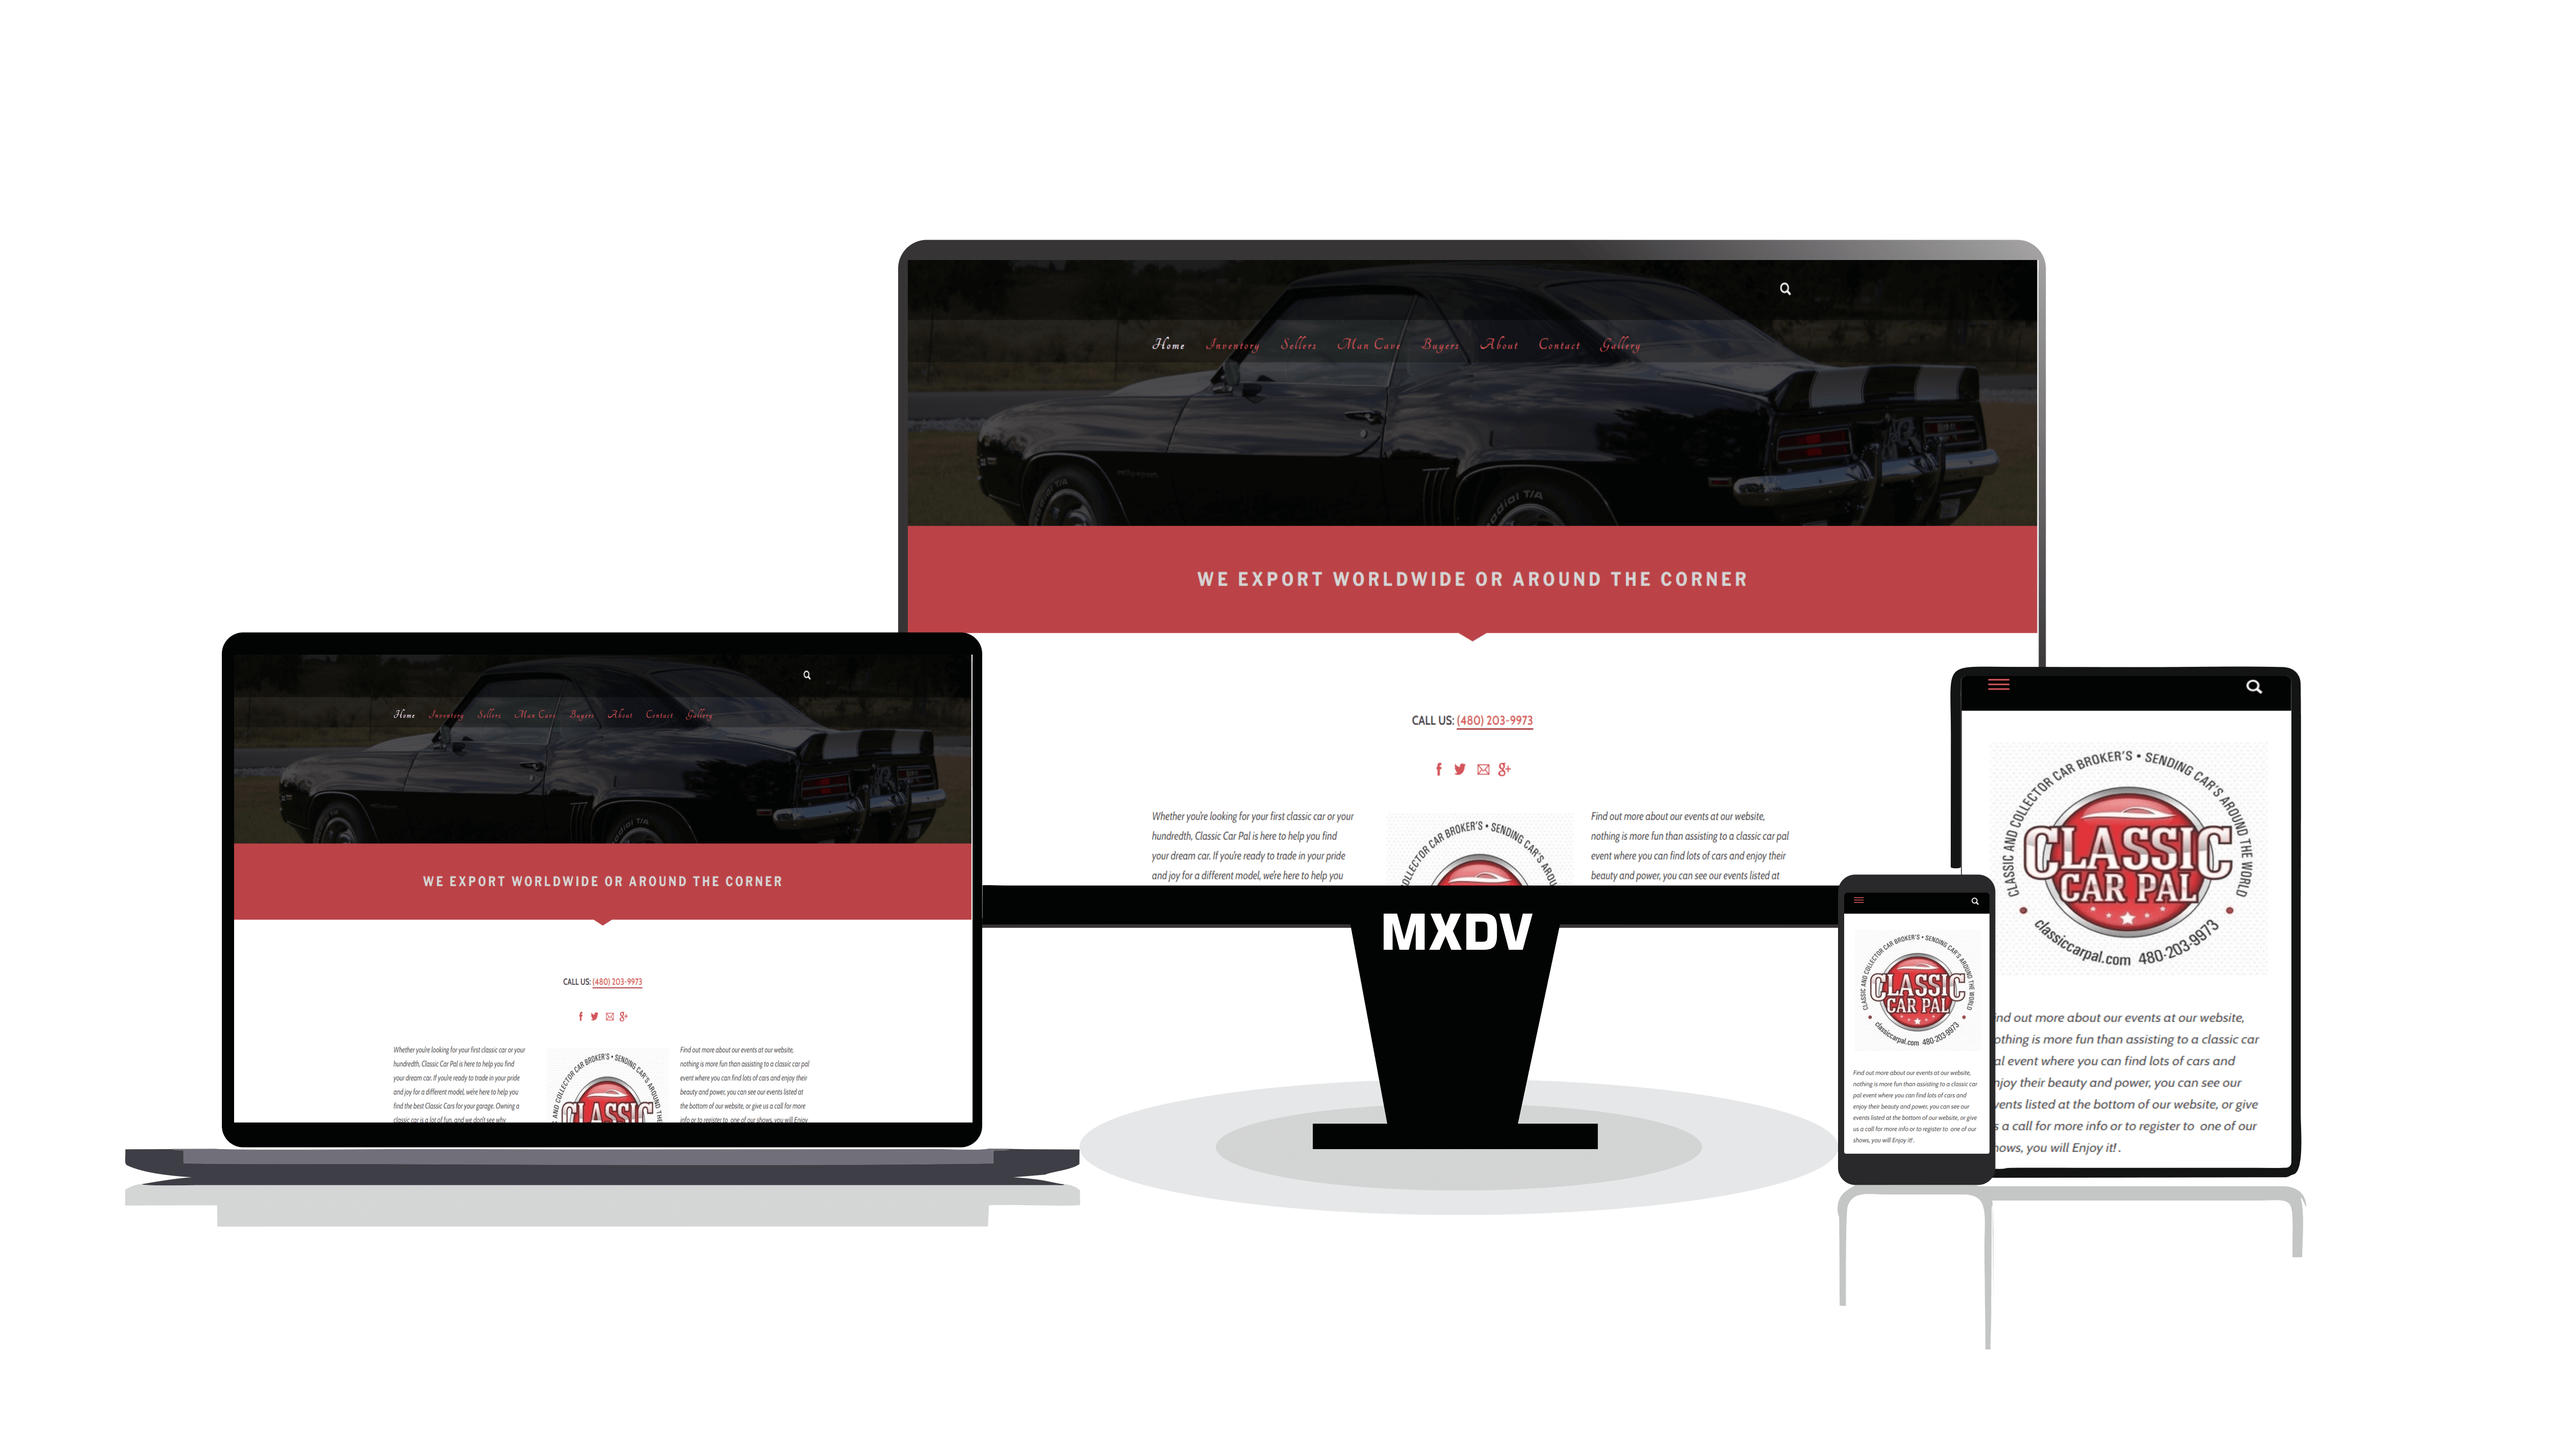
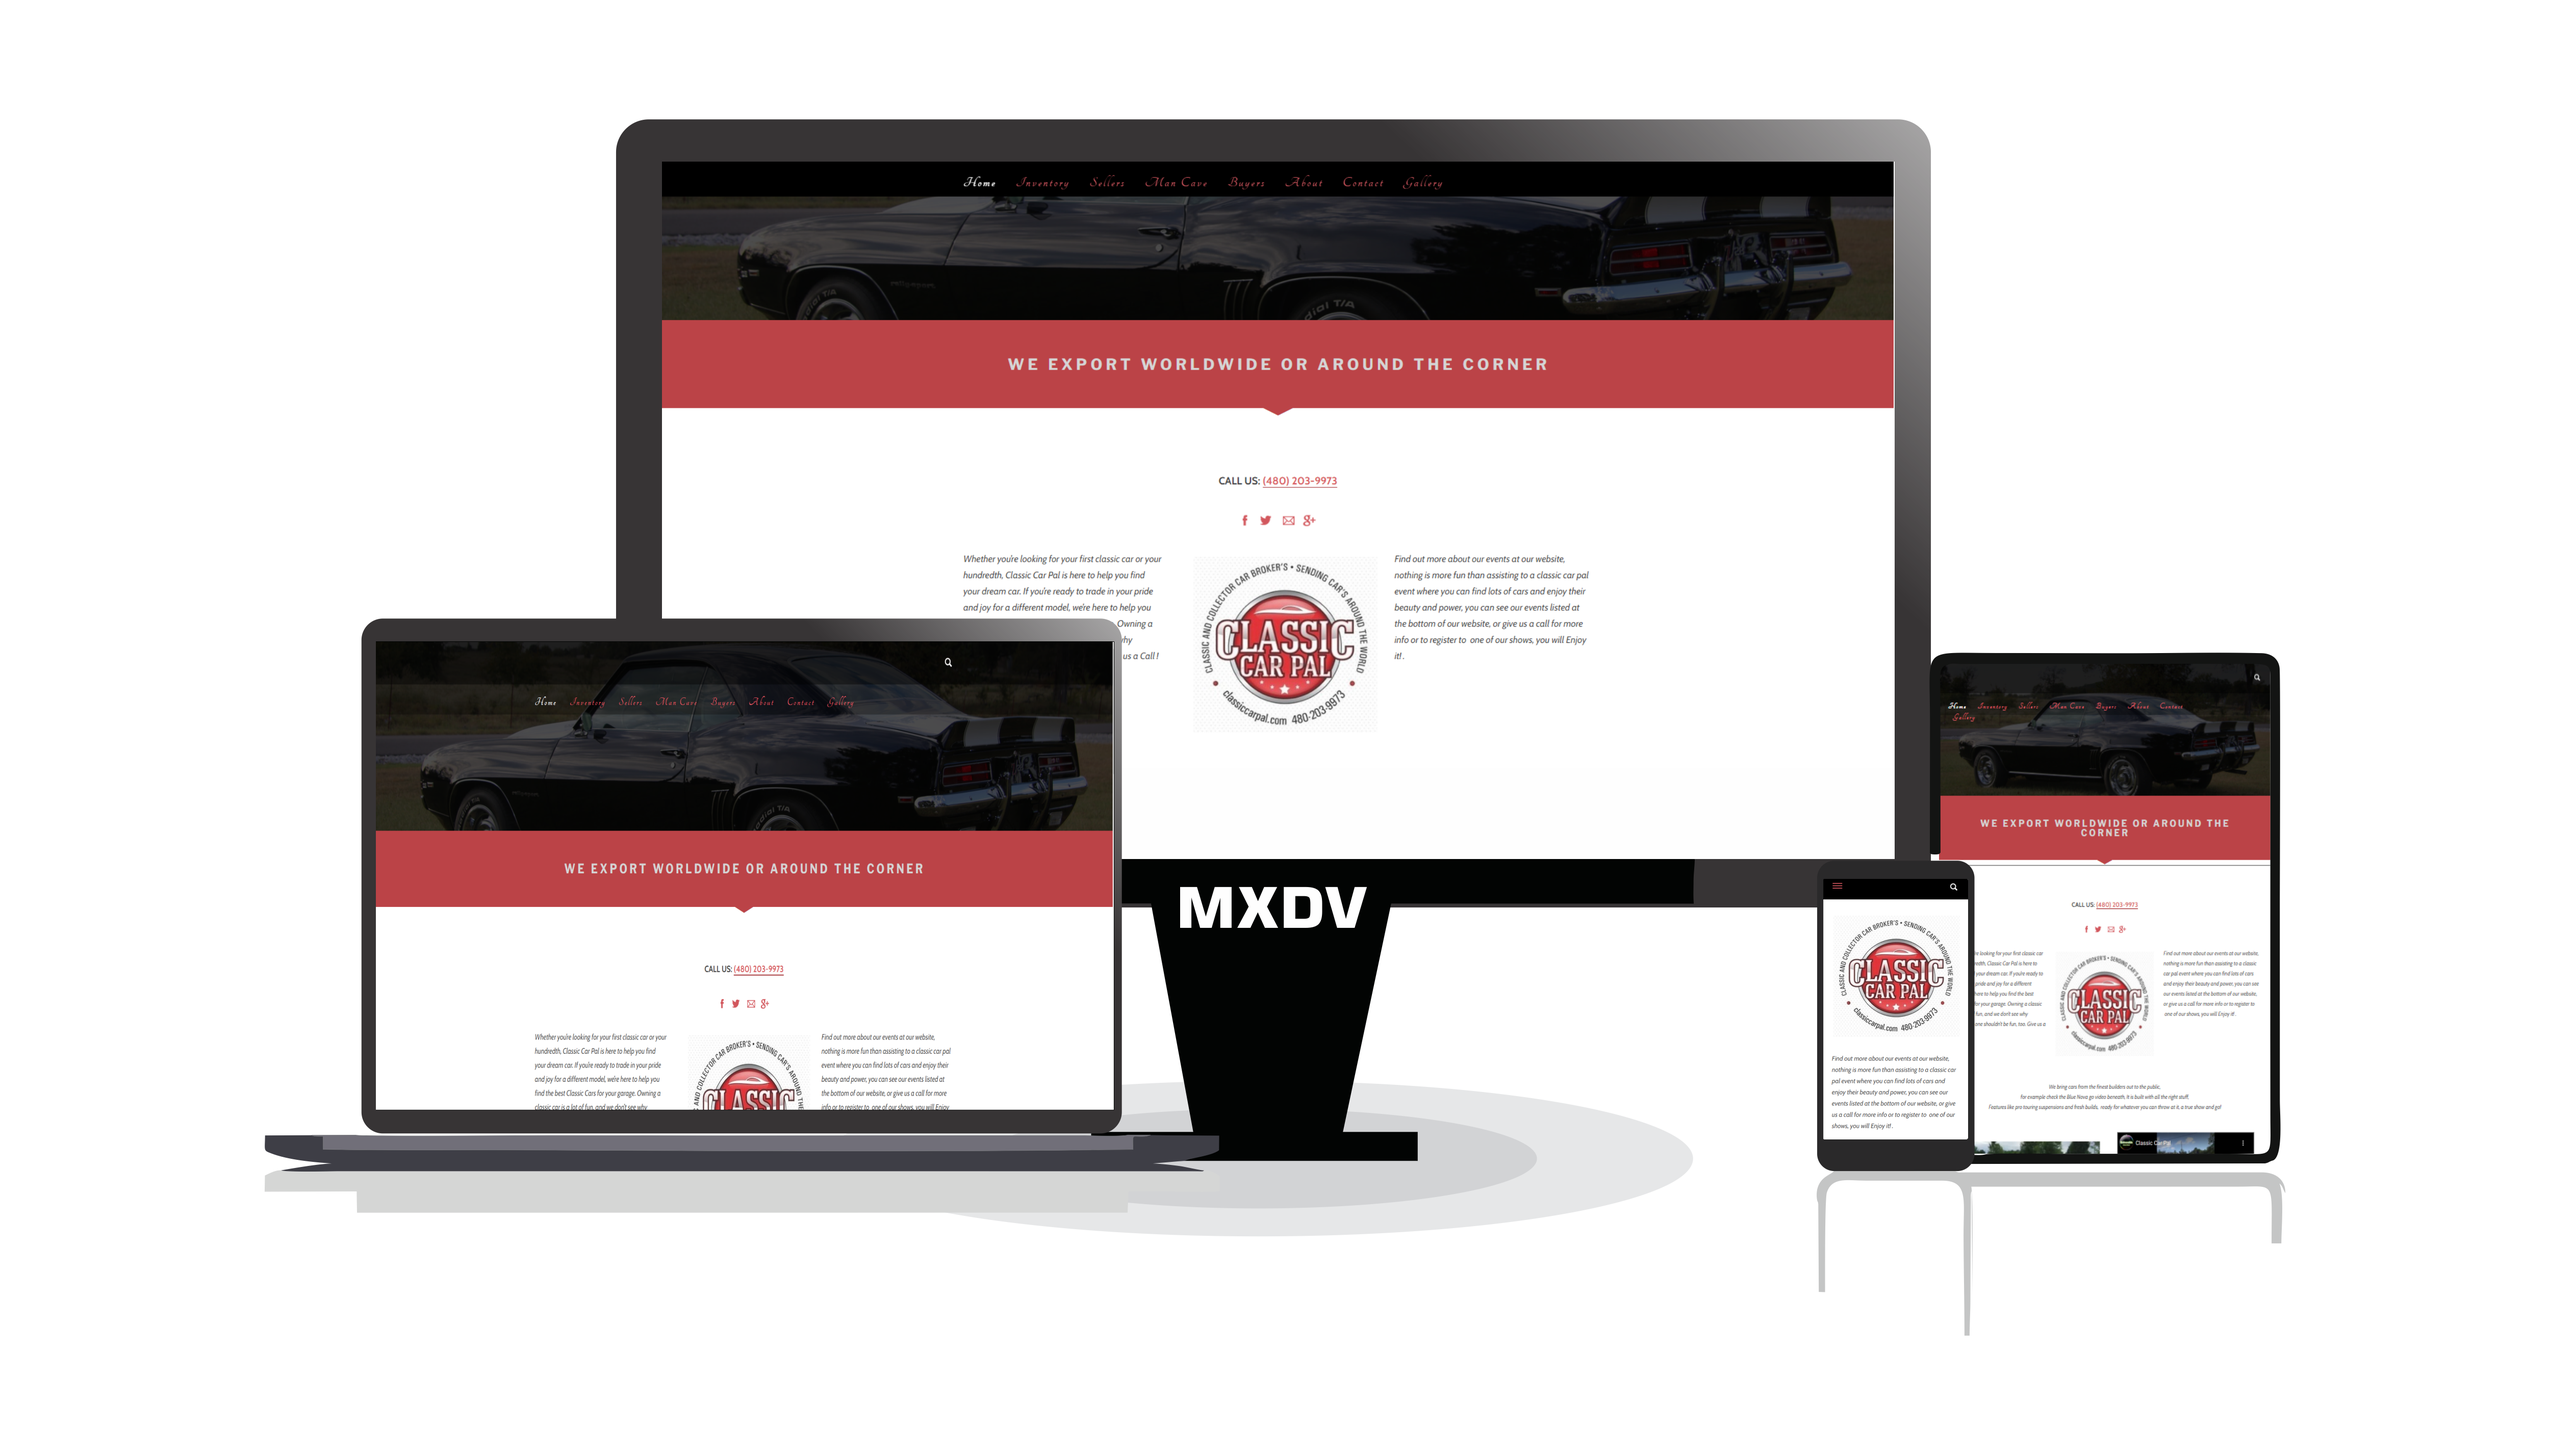
MockupSlider Images Optimization Smoothing out transitions

diff --git a/src/views/Landing.vue b/src/views/Landing.vue
@@ -10,11 +10,14 @@
 </div>
   <v-container >
   <transition appear name="fade">
-   <v-card>
-     <h5>
-      <span class="get primary--text pulsate-css" transition="scroll-y-transition"> Mexdev </span>
-    </h5>
+   <v-card class="mt-n5">
+      <h5>
+        <span class="get primary--text pulsate-css" transition="scroll-y-transition"> Mexdev </span>
+      </h5>
+      <h3 class="mt-3" style="color:dodgerblue">
 
+        Success: <h5> 5 happy international clients! <v-icon color="green"> mdi-clipboard-check </v-icon></h5>
+      </h3>
        <v-divider class="mb-5" />
      <div class="center nav-col-mid d-flex justify-center align-center">
        <v-dialog
@@ -89,15 +92,18 @@
           companies & contractors, upgrading into the online business model or updating their current app progress.
         </p>
       </v-container>
+      <v-container class="mt-10 mt-md-n7">
       <!-- Mockup Slider -->
-      <div class="slideshow">
+      <div class="slideshow ">
         <MockupSlider/>
-      </div>
-     <h2 class="mt-3" style="color:dodgerblue"><v-icon color="green"> mdi-clipboard-check </v-icon> Success: 5 happy international clients!</h2>
-      <v-divider class="mb-5"></v-divider>
-     <v-btn dark href="/contact" title="Get your products done!">Hire me!</v-btn>
-     <br>
-       <p class="center "><b>PS: “Mi reino no es parte de este mundo” (JUAN 18:37).</b></p>
+      </div><br>
+    </v-container>
+      <v-container class="mt-n15 mt-md-15">
+        <v-divider class="mb-5  mt-md-15"></v-divider>
+        <v-btn dark href="/contact" title="Get your products done!">Hire me!</v-btn>
+        <br>
+        <p class="center "><b>PS: “Mi reino no es parte de este mundo” (JUAN 18:37).</b></p>
+      </v-container>
    </v-card>
  </transition>
  </v-container>
@@ -167,6 +173,7 @@ h4 {
 }
 .v-card {
   padding: 20px;
+  max-width: 900px !important;
 }
 .h-des {
   font-size: 16px ;

diff --git a/src/components/animations/MockupSlider.vue b/src/components/animations/MockupSlider.vue
@@ -39,7 +39,7 @@ export default {
 
 <style scoped>
 img#img {
-    max-width: 600px;
+    max-width: 900px;
 }
 @media (max-width:900px){
   img#img {
@@ -134,42 +134,48 @@ left:0;
 -webkit-animation-name: cf4FadeInOut;
 -webkit-animation-timing-function: ease-in-out;
 -webkit-animation-iteration-count: infinite;
--webkit-animation-duration: 8s;
+-webkit-animation-duration: 10s;
 
 -moz-animation-name: cf4FadeInOut;
 -moz-animation-timing-function: ease-in-out;
 -moz-animation-iteration-count: infinite;
--moz-animation-duration: 8s;
+-moz-animation-duration: 10s;
 
 -o-animation-name: cf4FadeInOut;
 -o-animation-timing-function: ease-in-out;
 -o-animation-iteration-count: infinite;
--o-animation-duration: 8s;
+-o-animation-duration: 10s;
 
 animation-name: cf4FadeInOut;
 animation-timing-function: ease-in-out;
 animation-iteration-count: infinite;
-animation-duration: 8s;
+animation-duration: 10s;
 }
 #cf4a img:nth-of-type(1) {
+-webkit-animation-delay: 8s;
+-moz-animation-delay: 8s;
+-o-animation-delay: 8s;
+animation-delay: 8s;
+}
+#cf4a img:nth-of-type(2) {
 -webkit-animation-delay: 6s;
 -moz-animation-delay: 6s;
 -o-animation-delay: 6s;
 animation-delay: 6s;
 }
-#cf4a img:nth-of-type(2) {
+#cf4a img:nth-of-type(3) {
 -webkit-animation-delay: 4s;
 -moz-animation-delay: 4s;
 -o-animation-delay: 4s;
 animation-delay: 4s;
 }
-#cf4a img:nth-of-type(3) {
+#cf4a img:nth-of-type(4) {
 -webkit-animation-delay: 2s;
 -moz-animation-delay: 2s;
 -o-animation-delay: 2s;
 animation-delay: 2s;
 }
-#cf4a img:nth-of-type(4) {
+#cf4a img:nth-of-type(5) {
 -webkit-animation-delay: 0;
 -moz-animation-delay: 0;
 -o-animation-delay: 0;

diff --git a/src/styles/app.css b/src/styles/app.css
@@ -116,7 +116,7 @@ p {
 }
 .v-card {
   margin: 20px auto !important;
-  max-width: 600px !important;
+  max-width: 600px;
   min-width: auto !important;
   transition:1s;
 }
